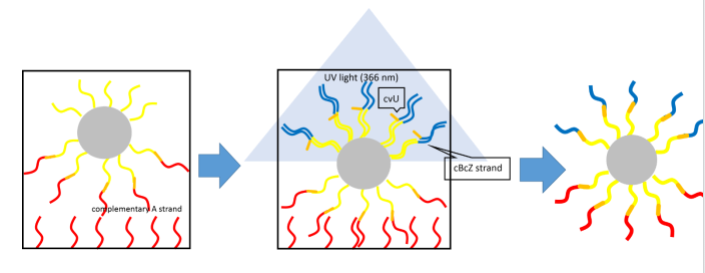
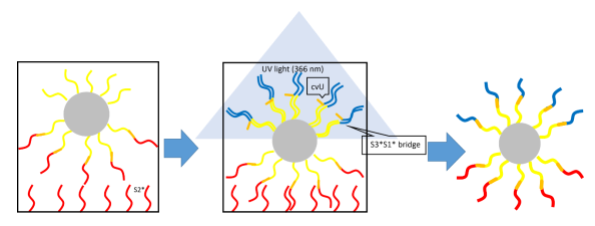
a

Changed region(s): [[0.0303, 0.0, 1.0, 1.0]]

diff --git a/project.html b/project.html
@@ -42,7 +42,7 @@
     </div>
 <div class="content" id="outline">
     <h3><img src="./img/outline.png"  ></h3>
-    <p>The goal of this project is to create “polychrome DNA beads”, whose sphere is separated into several regions, each covered with a different kind of ssDNA. “Polychrome DNA beads” are made from particles covered with the same ssDNA. Multiple kinds of ssDNAs with carboxyvinyl uracil (cvU) are prepared. If cvU is irradiated by UV light, it makes a covalent bond with an adjacent DNA molecule. Therefore, it should be possible to ligate a different kind of ssDNA with the strands on each region of the sphere. We then prepare DNA strands, called “DNA bridges”, which hybridize with those ligated DNA strands. By joining “polychrome DNA beads” by appropriate kinds of “DNA bridges”, we will be able to make accurate 3-dimensional structures in a bottom-up manner. 
+    <p>The goal of this project is to create “polychrome DNA beads”, whose sphere is separated into several regions, each covered with a different kind of ssDNA. “Polychrome DNA beads” are made from particles covered with the same ssDNA. Multiple kinds of ssDNAs with carboxyvinyl uracil (cvU) are prepared. If cvU is irradiated by UV light, it makes a covalent bond with an adjacent DNA molecule. Therefore, it should be possible to ligate a different kind of ssDNA with the strands on each region of the sphere. We then prepare DNA strands, called “DNA bridges”, which hybridize with those ligated DNA strands. By joining “polychrome DNA beads” by appropriate kinds of “DNA bridges”, we will be able to make accurate 3-dimensional structures in a bottom-up manner.
     <img src="./img/outline1.png" class="imgblock">
 There are two benefits in our approach compared with a similar prior study.<a href="#footnote1"><sup>*1</sup></a>
 <br>
@@ -57,53 +57,52 @@ Yuichi Ohya et al, 2012</li>
 </ol>
     </p>
     </div>
-<div class="content" id="bicolor">
-    <h3><img src="./img/bicolor.png" ></h3>
-    <p>“Bi-color DNA beads” are the most basic “polychrome DNA beads” having two colors on two hemispheres. They are models for developing more general “polychrome DNA beads”.
+<div class="content" id="bichrome">
+    <h3><img src="./img/bichrome.png" ></h3>
+    <p>“Bi-chrome DNA beads” are the most basic “polychrome DNA beads” having two colors on two hemispheres. They are models for developing more general “polychrome DNA beads”.
 <br>
-Our “bi-color DNA beads” consist of magnetic beads and two kinds of DNAs (named A and B). The “DNA bridge” consisting of complementary A and complementary B (cAcB) is used to join the beads, and a straight-line 1-dimentional structure is created.
+Our “bi-chrome DNA beads” consist of magnetic beads, base DNA (named S1) and two kinds of DNAs (named S2 and S3). The “DNA bridge” consisting of S2* and S3* is used to join the beads, and a straight-line 1-dimentional structure is created.
 <br>
-We use magnetic beads for core of our “bi-color DNA beads”. This has some benefits. Magnetic beads can be localized at a specific area by applying a magnetic field to them. So we can increase the efficiency of self-assembly of “bi-color DNA beads”.
-<img src="./img/bridge.png" class="imgblock"></p>
+We use magnetic beads for core of our “bi-chrome DNA beads”. This has some benefits. Magnetic beads can be localized at a specific area by applying a magnetic field to them. So we can increase the efficiency of self-assembly of “bi-chrome DNA beads”.
+<img src="./img/bichrome1.png" class="imgblock"></p>
 
     </div>
  <div class="content" id="design">
     <h3><img src="./img/design.png" ></h3>
-    <p>In the experiments, we use 3-micron magnetic beads and wells both coated with streptavidin. Three kinds of DNA strands are needed to make “bi-color DNA beads”, so we name them Z, A and B, respectively.
+    <p>In the experiments, we use 3-micron magnetic beads and wells both coated with streptavidin. Three kinds of DNS2s are needed to make “bi-chrome DNA beads”, so we name them S1, S2 and S3, respectively.
+<br>
 Our method consists of three steps.
 <br>
-The first step is to attach Z-strand to beads and complementary Z-strand to a well.
+The first step is to attach S1 to beads and S1* to a well.
 <br>
-We attach Z-strand with biotin at 5’ end to the beads, and complimentary Z strand to the well by avidin-biotin interaction.
+We attach S1 with biotin at 5’ end to the beads, and S1* to the well by avidin-biotin interaction.
 <br>
-Then we put the beads into the well and hybridize Z-strand and complementary Z-strand.
+Then we put the beads into the well and hybridize S1 and S1*.
 
 <img src="./img/design1.png" class="imgblock">
 
-The second step is to connect A-strand with Z-strand on beads.
+The second step is to connect S2 with S1 on beads.
 <br>
-In a separate tube, we hybridized cAcZ-strand and A-strand with cvU. A-strand and Z-strand are not connected just as they are, so we use cAcZ-strand as a support.
+In a separate tube, we hybridized S2*S1* and S2 with cvU. S2 and S1 are not connected just as they are, so we use S2*S1* as a support.
 <br>
-Note that cvU, which stands for carboxyl vinyl uracil, is a photo reactive base, and is connected to an adjacent DNA strand when irradiated with the light whose wave length is 366nm.
+Note that cvU, which stands for carboxyl vinyl uracil, is a photo reactive base, and is connected to an adjacent DNS2 when irradiated with the light whose wave length is 366nm.
 <br>
-A-strand with cvU, which is hybridized with cAcZ-strand, is put in the well and hybridized with Z strand on beads.
+S2 with cvU, which is hybridized with S2*S1*, is put in the well and hybridized with S1 on beads.
 <br>
-As a result, A-strand with cvU and cAcZ-strand are hybridized with the copies of
+As a result, S2 with cvU and S2*S1* are hybridized with the copies of S1 on the beads that are not hybridized with the well.
 <br>
-Z-strand on the beads that are not hybridized with the well.
+We irradiate the well with the light whose wave length is 366nm. Then, cvU reacts to the light, and S1 on beads and S2 with cvU are ligated.
 <br>
-We irradiate the well with the light whose wave length is 366nm. Then, cvU reacts to the light, and Z-strand on beads and A-strand with cvU are ligated.
+We irradiate the well for only a short time from the top of the well. So, only the upper hemisphere of the beads is exposed to the light. Then the copies of cvU only at the upper hemisphere of the beads react to light, and only DNA strands on the upper side are ligated. This is most important point in making “polychrome DNA beads” or “bi-chrome DNA beads”.
 <br>
-We irradiate the well for only a short time from the top of the well. So, only the upper hemisphere of the beads is exposed to the light. Then the copies of cvU only at the upper hemisphere of the beads react to light, and only DNA strands on the upper side are ligated. This is most important point in making “polychrome DNA beads” or “bi-color DNA beads”.
-<br>
-After that, by alkaline denaturation, cAcZ-strands are removed from the beads, and the beads are removed from the well.
+After that, by alkaline denaturation, S2*S1*s are removed from the beads, and the beads are removed from the well.
 <img src="./img/design2.png" class="imgblock">
 
-The third step is to attach B-strand to Z-strand on the beads.
+The third step is to attach S3 to S1 on the beads.
 <br>
-We attach complementary A-strand to another well and hybridize them with the processed beads. As in the second step, we hybridize B-strand with cBcZ-strand, and add them to the well and hybridize them with Z-strand. After irradiating the well with the light whose wave length is 366nm, we remove strands which are not ligated with A-strand on the beads by alkaline denaturation. Then the construction of “bi-color DNA beads” is complete.
+We attach complementary S2 to another well and hybridize them with the processed beads. As in the second step, we hybridize S3 with S3*S1*, and add them to the well and hybridize them with S1. After irradiating the well with the light whose wave length is 366nm, we remove strands which are not ligated with S2 on the beads by alkaline denaturation. Then the construction of “bi-chrome DNA beads” is complete.
 <img src="./img/design3.png" class="imgblock">
-We have not done an experiment for making multi-color DNA beads, but if the beads are immobilized to a well containing cA-strand, and irradiated with light from the side, we think it is possible to attach more kinds of DNA strands to the beads.
+We have not done an experiment for making multi-color DNA beads, but if the beads are immobilized to a well containing S2*, and irradiated with light from the side, we think it is possible to attach more kinds of DNA strands to the beads.
 </p>
     </div>
 <div class="content" id="future">

diff --git a/css/side.css b/css/side.css
@@ -26,7 +26,7 @@ ul.sidemenu li{
 }
 
 ul.sidemenu li a{
-	line-height:25px;
+	line-height:23px;
 	font-size:22px;
 	text-decoration:none;
 	color:#000000;
